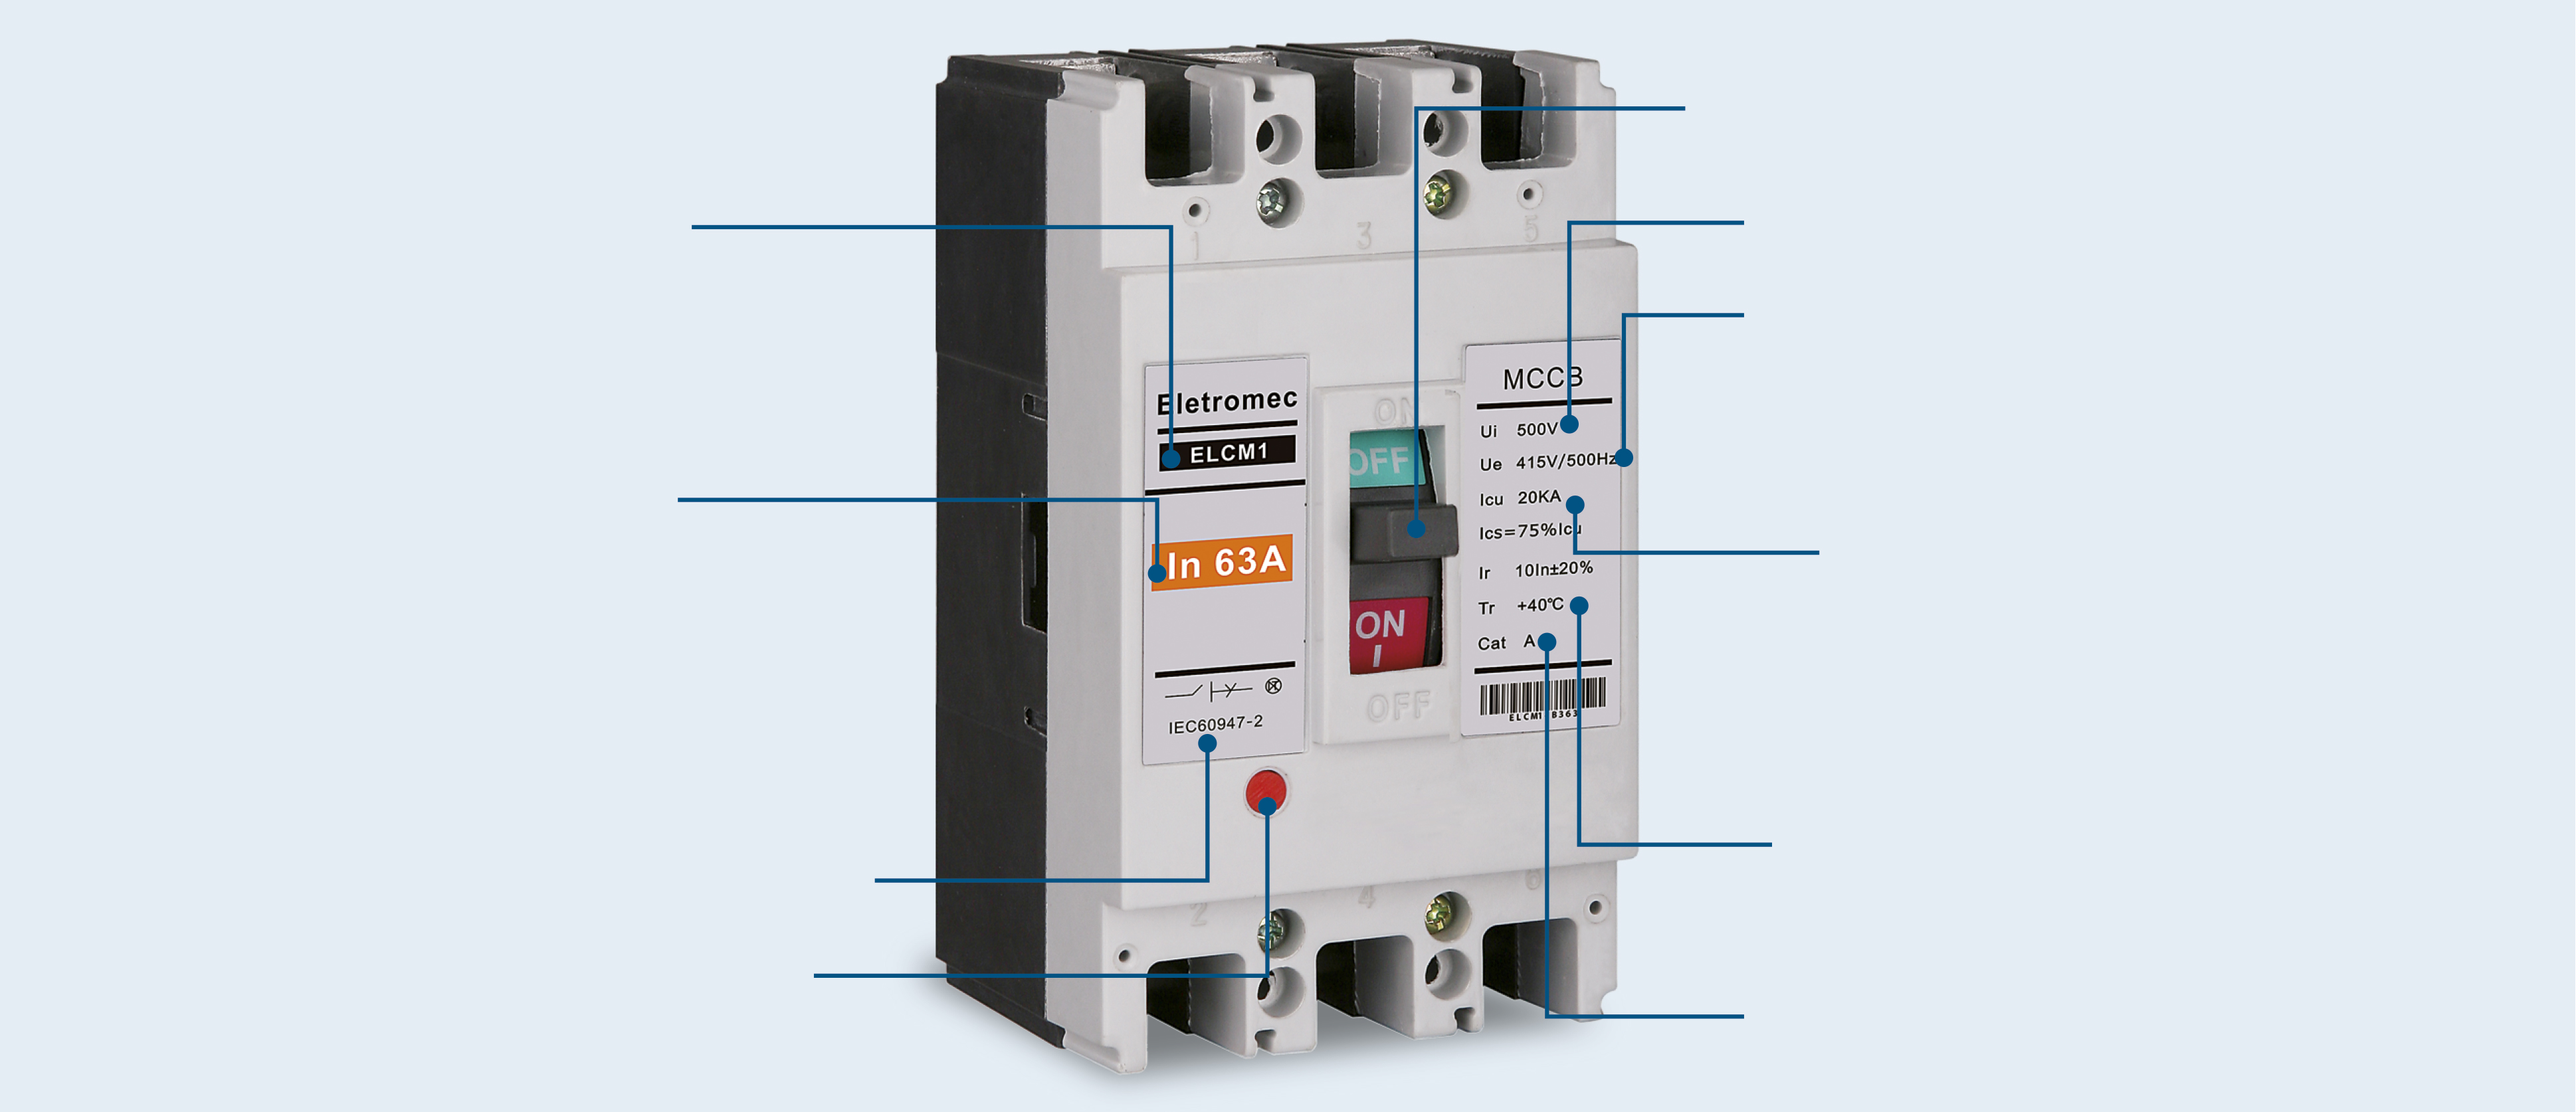
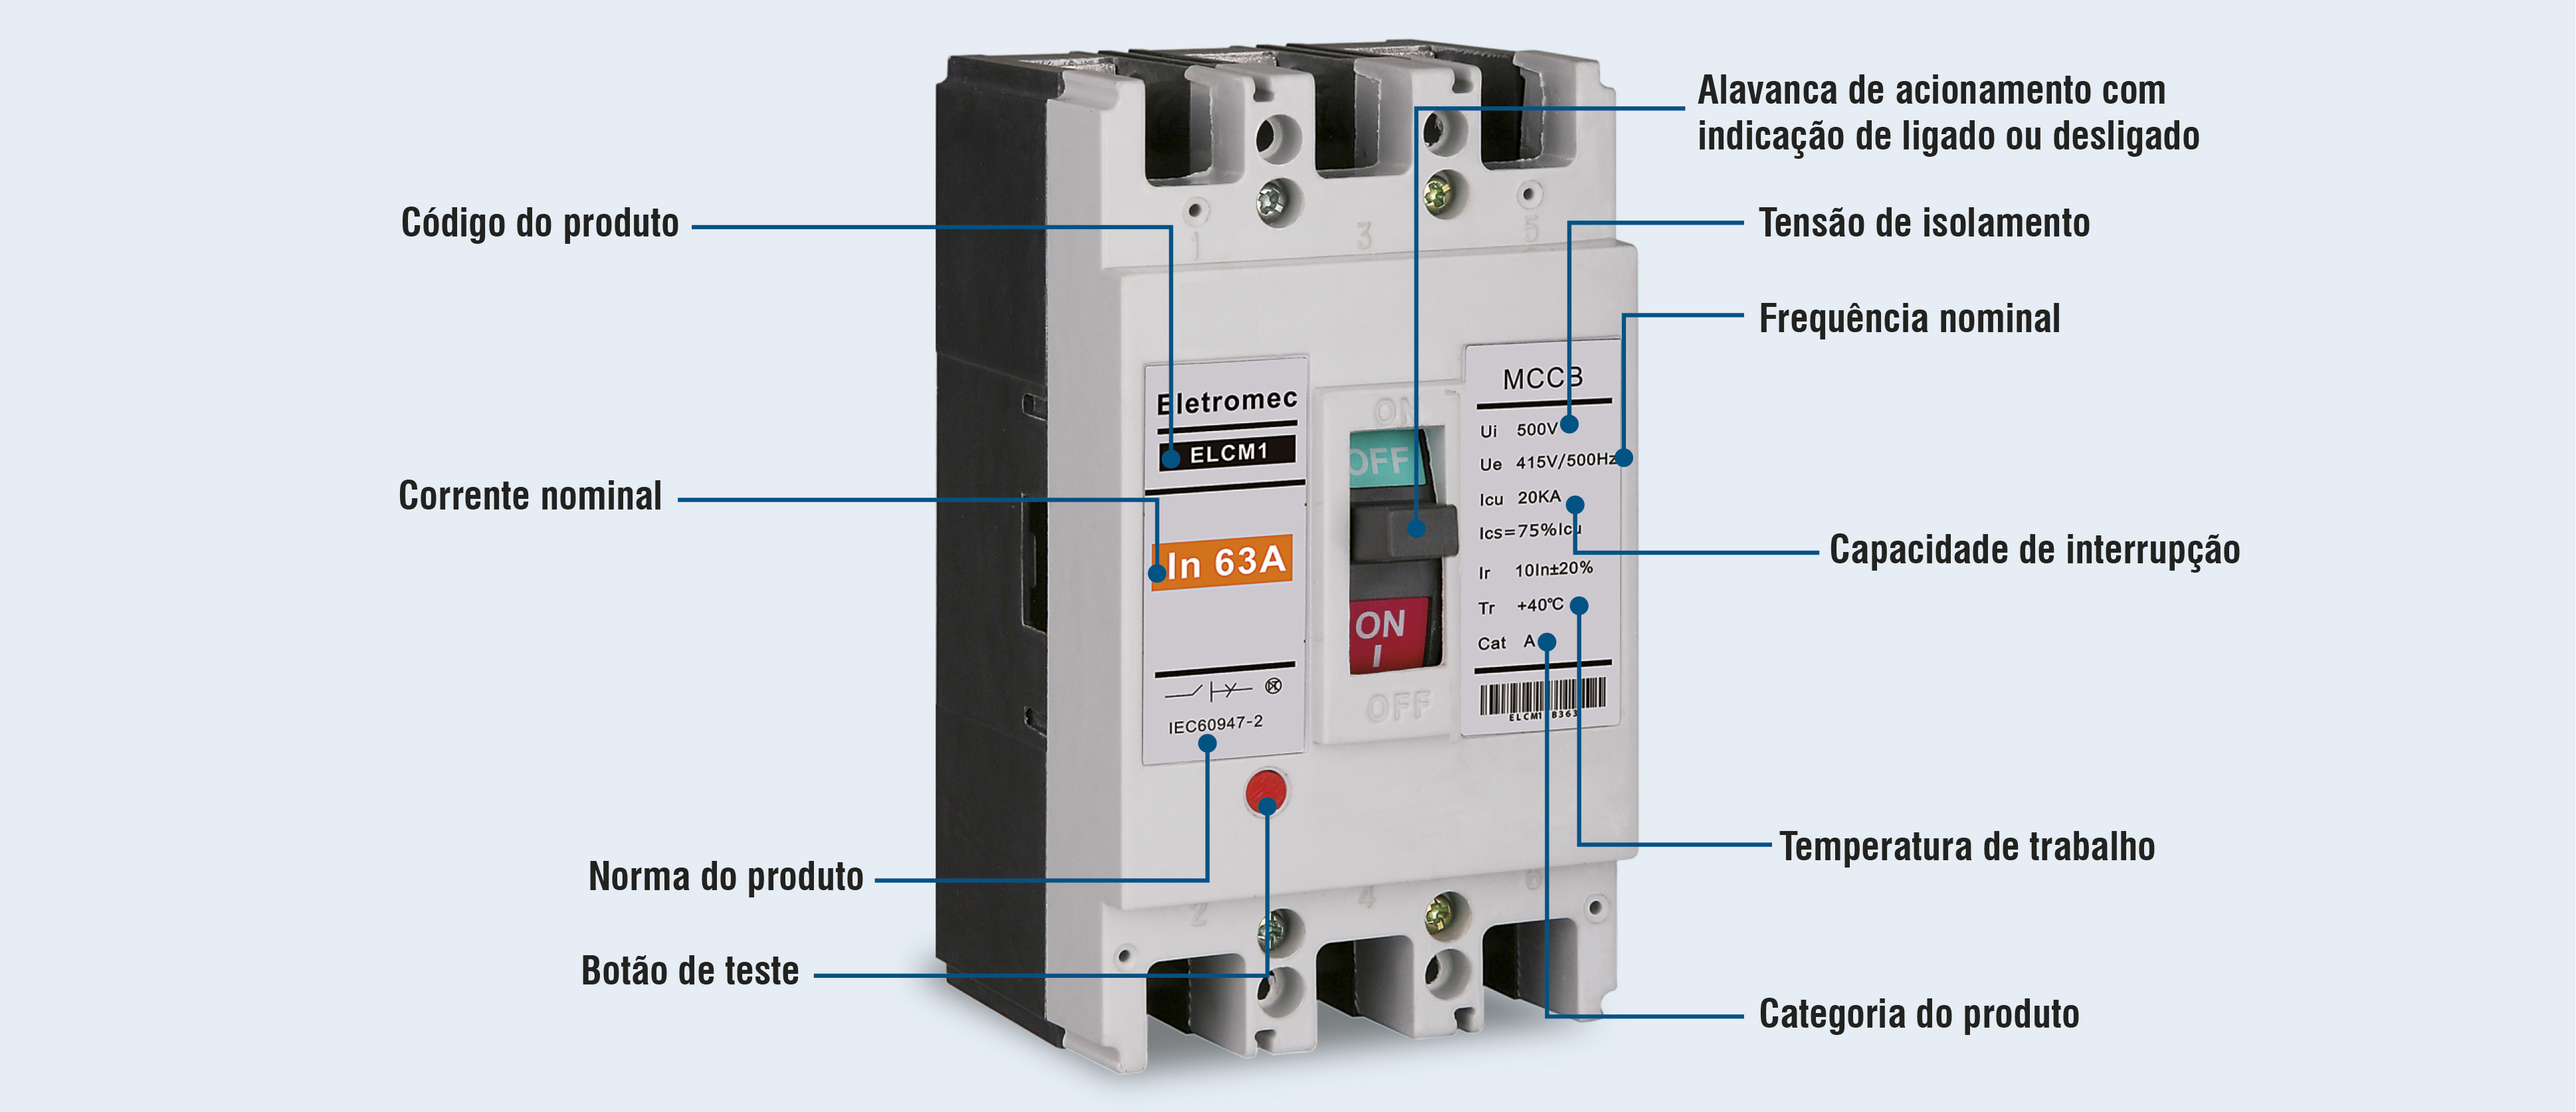
Inclusão de imagem na tela de ELCM

diff --git a/views/elcm/view.html b/views/elcm/view.html
@@ -63,7 +63,7 @@
     <div class="container">
         <div class="row">
             <div class="col-xs-12">
-                <span>FALTA A IMAGEM</span>
+                <img src="img/Pg Linha ELCM/ELCM.jpg" alt="ELCM" width="100%" />
             </div>
         </div>
     </div>
